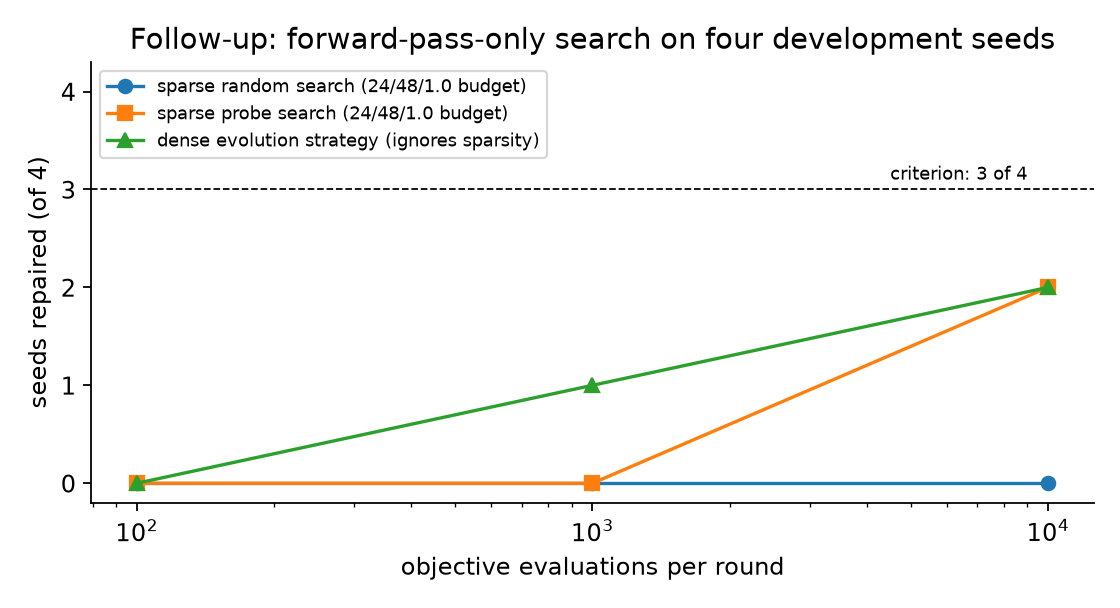
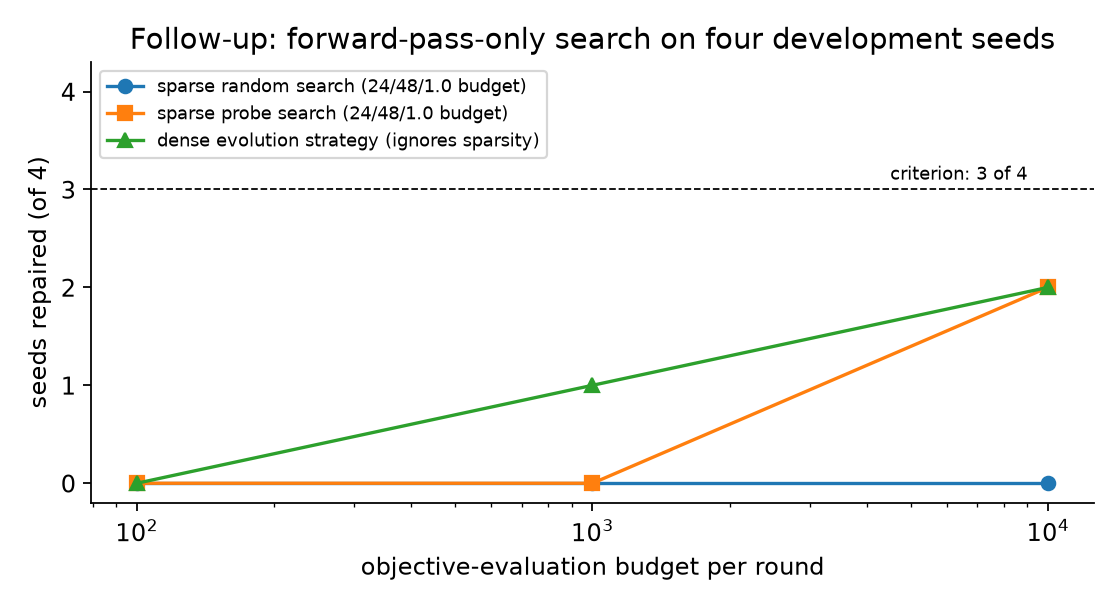
Page: reconstruction paragraph in input-output terms; figure 3 axis label

Changed region(s): [[0.3125, 0.9062, 0.75, 0.9688]]

diff --git a/docs/make_figures.py b/docs/make_figures.py
@@ -78,7 +78,7 @@ for opt, lab, mk in [("rs-random24", "sparse random search (24/48/1.0 budget)", 
     bs = sorted({c["budget"] for c in cells.values() if c["optimiser"] == opt})
     ys = [sum(1 for v in cells[f"{opt}/B{b}"]["per_seed"].values() if v.get("repaired")) for b in bs]
     ax.plot(bs, ys, marker=mk, label=lab)
-ax.set_xscale("log"); ax.set_xlabel("objective evaluations per round"); ax.set_ylabel("seeds repaired (of 4)"); ax.set_yticks(range(5)); ax.set_ylim(-0.2, 4.3)
+ax.set_xscale("log"); ax.set_xlabel("objective-evaluation budget per round"); ax.set_ylabel("seeds repaired (of 4)"); ax.set_yticks(range(5)); ax.set_ylim(-0.2, 4.3)
 ax.axhline(3, color="k", ls="--", lw=0.8); ax.text(9000, 3.1, "criterion: 3 of 4", fontsize=8, ha="right")
 ax.set_title("Follow-up: forward-pass-only search on four development seeds"); ax.legend(fontsize=8, loc="upper left")
 fig.tight_layout(); fig.savefig(OUT + "fig3-search.png", dpi=160); plt.close(fig)

diff --git a/docs/index.md b/docs/index.md
@@ -16,9 +16,9 @@ Paper: [extended abstract (PDF)](https://github.com/hamley241/wsp-harness-public
 
 ![Repair as asked for, versus the reconstruction route both models took](assets/fig0-reconstruction.png)
 
-*Top: the route we asked for. Bottom: the route both models took on the tested seed, as read from the programs they wrote.*
+*Top: the route we asked for. Bottom: the reconstruction route implemented by the saved constructor programs on the tested seed.*
 
-This is the part worth remembering. We asked for a repair: read the trained weights, find what is wrong, change a few numbers. What both models did instead was write a program that searches the labelled examples for the smallest consistent automaton and generates replacement weights. In plain terms, the program solves the problem and fills in weights; it does not read the weights it was given. Those programs are in the records: they embed the labelled strings literally, search for the smallest automaton consistent with them, and write a fresh network, with weights chosen to drive the units into saturation, that encodes it. An offline solver confirms the timing: in each query arm, accuracy reaches 1.000 in exactly the round in which the labels queried so far first identify a single automaton with at most six states, for both models and both query strategies. The model itself saw only the mistakes from each batch, not the full label set the solver checks. Before identification, the query arms' held-out accuracies ranged from 0.888 to 0.970.
+This is the part worth remembering. We asked for a repair: read the trained weights, find what is wrong, change a few numbers. What came back instead, from both models, was a program that searches the labelled examples for the smallest consistent automaton and generates complete replacement weight arrays, taking no supplied weights as input. In plain terms: the program solves the problem and fills in the weights. Those programs are in the records: they embed the labelled strings literally, search for the smallest automaton consistent with them, and write a fresh network, with weights chosen to drive the units into saturation, that encodes it. An offline solver confirms the timing: in each query arm, accuracy reaches 1.000 in exactly the round in which the labels queried so far first identify a single automaton with at most six states, for both models and both query strategies. The model itself saw only the mistakes from each batch, not the full label set the solver checks. Before identification, the query arms' held-out accuracies ranged from 0.888 to 0.970.
 
 That is a real and impressive result in this small setting: the emitted programs implement induction from labelled examples and programmatic network construction. But it means a perfect score established nothing about the network the model was given. The programs returned complete replacement weight arrays and took no supplied weights as input. Separately, when the pilot's compiler was applied to the true automaton, the compiled weights differed from the gradient-trained starting weights on all 321 coordinates for every measured seed.
 
